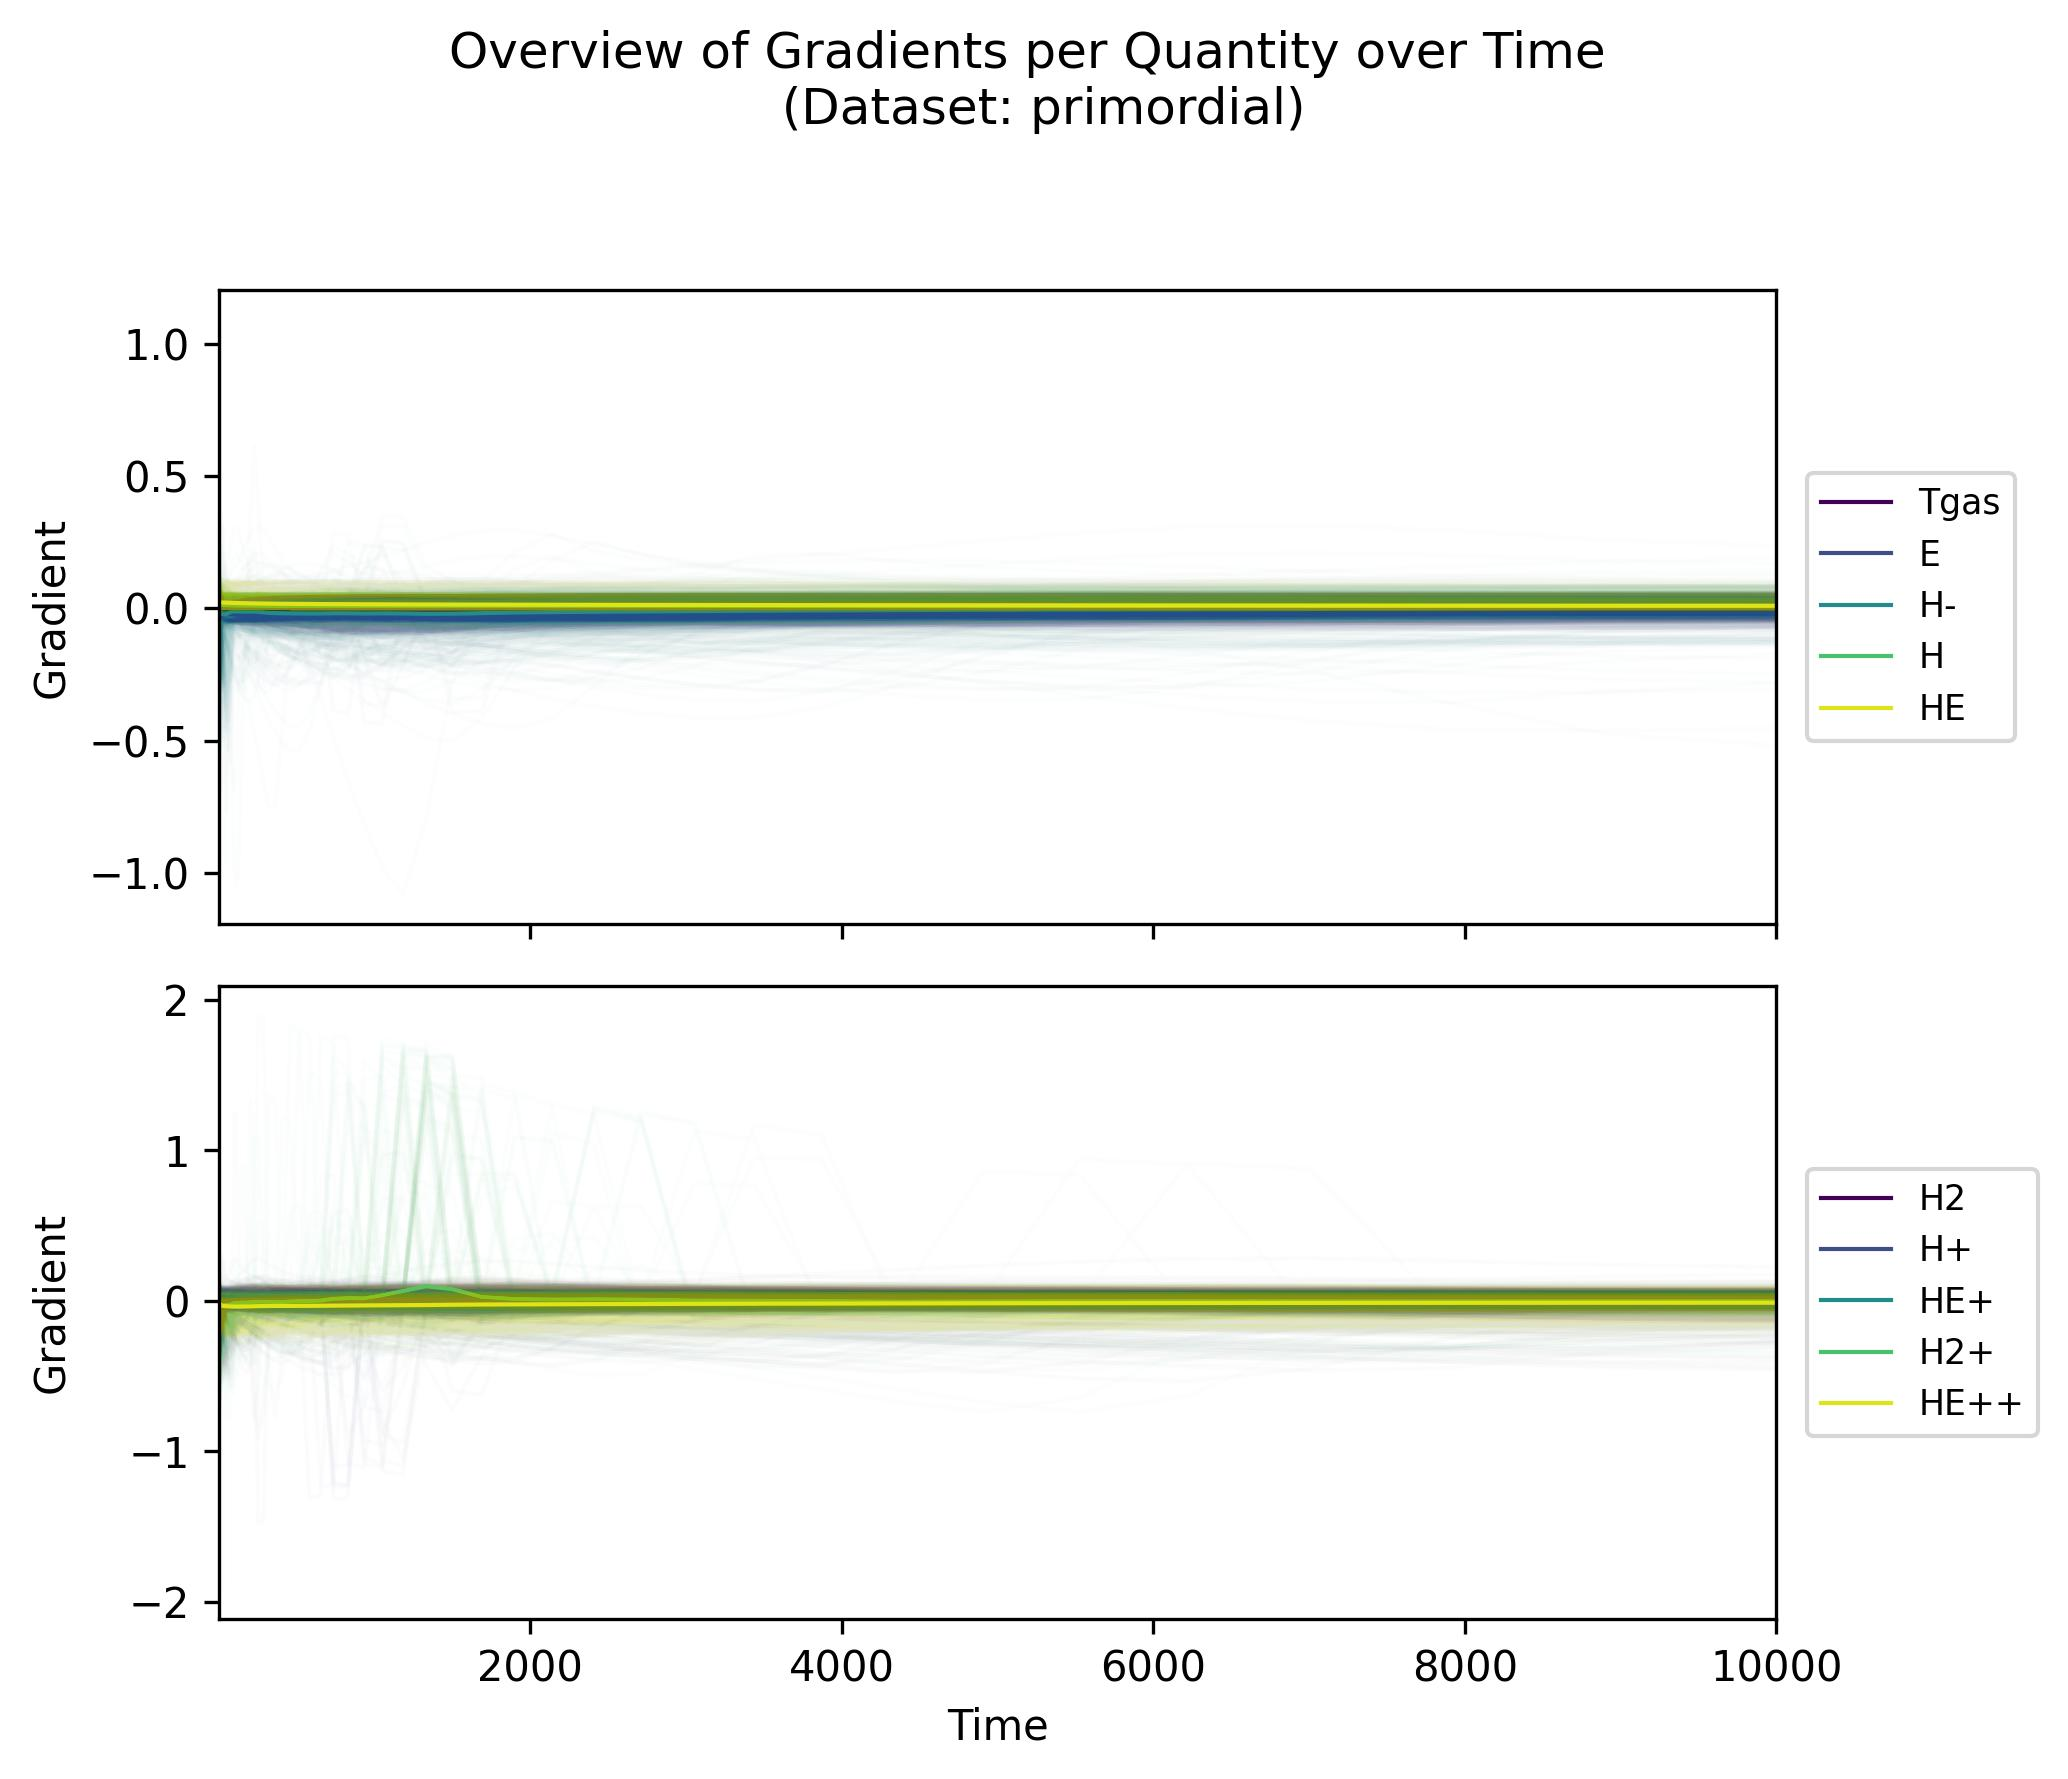
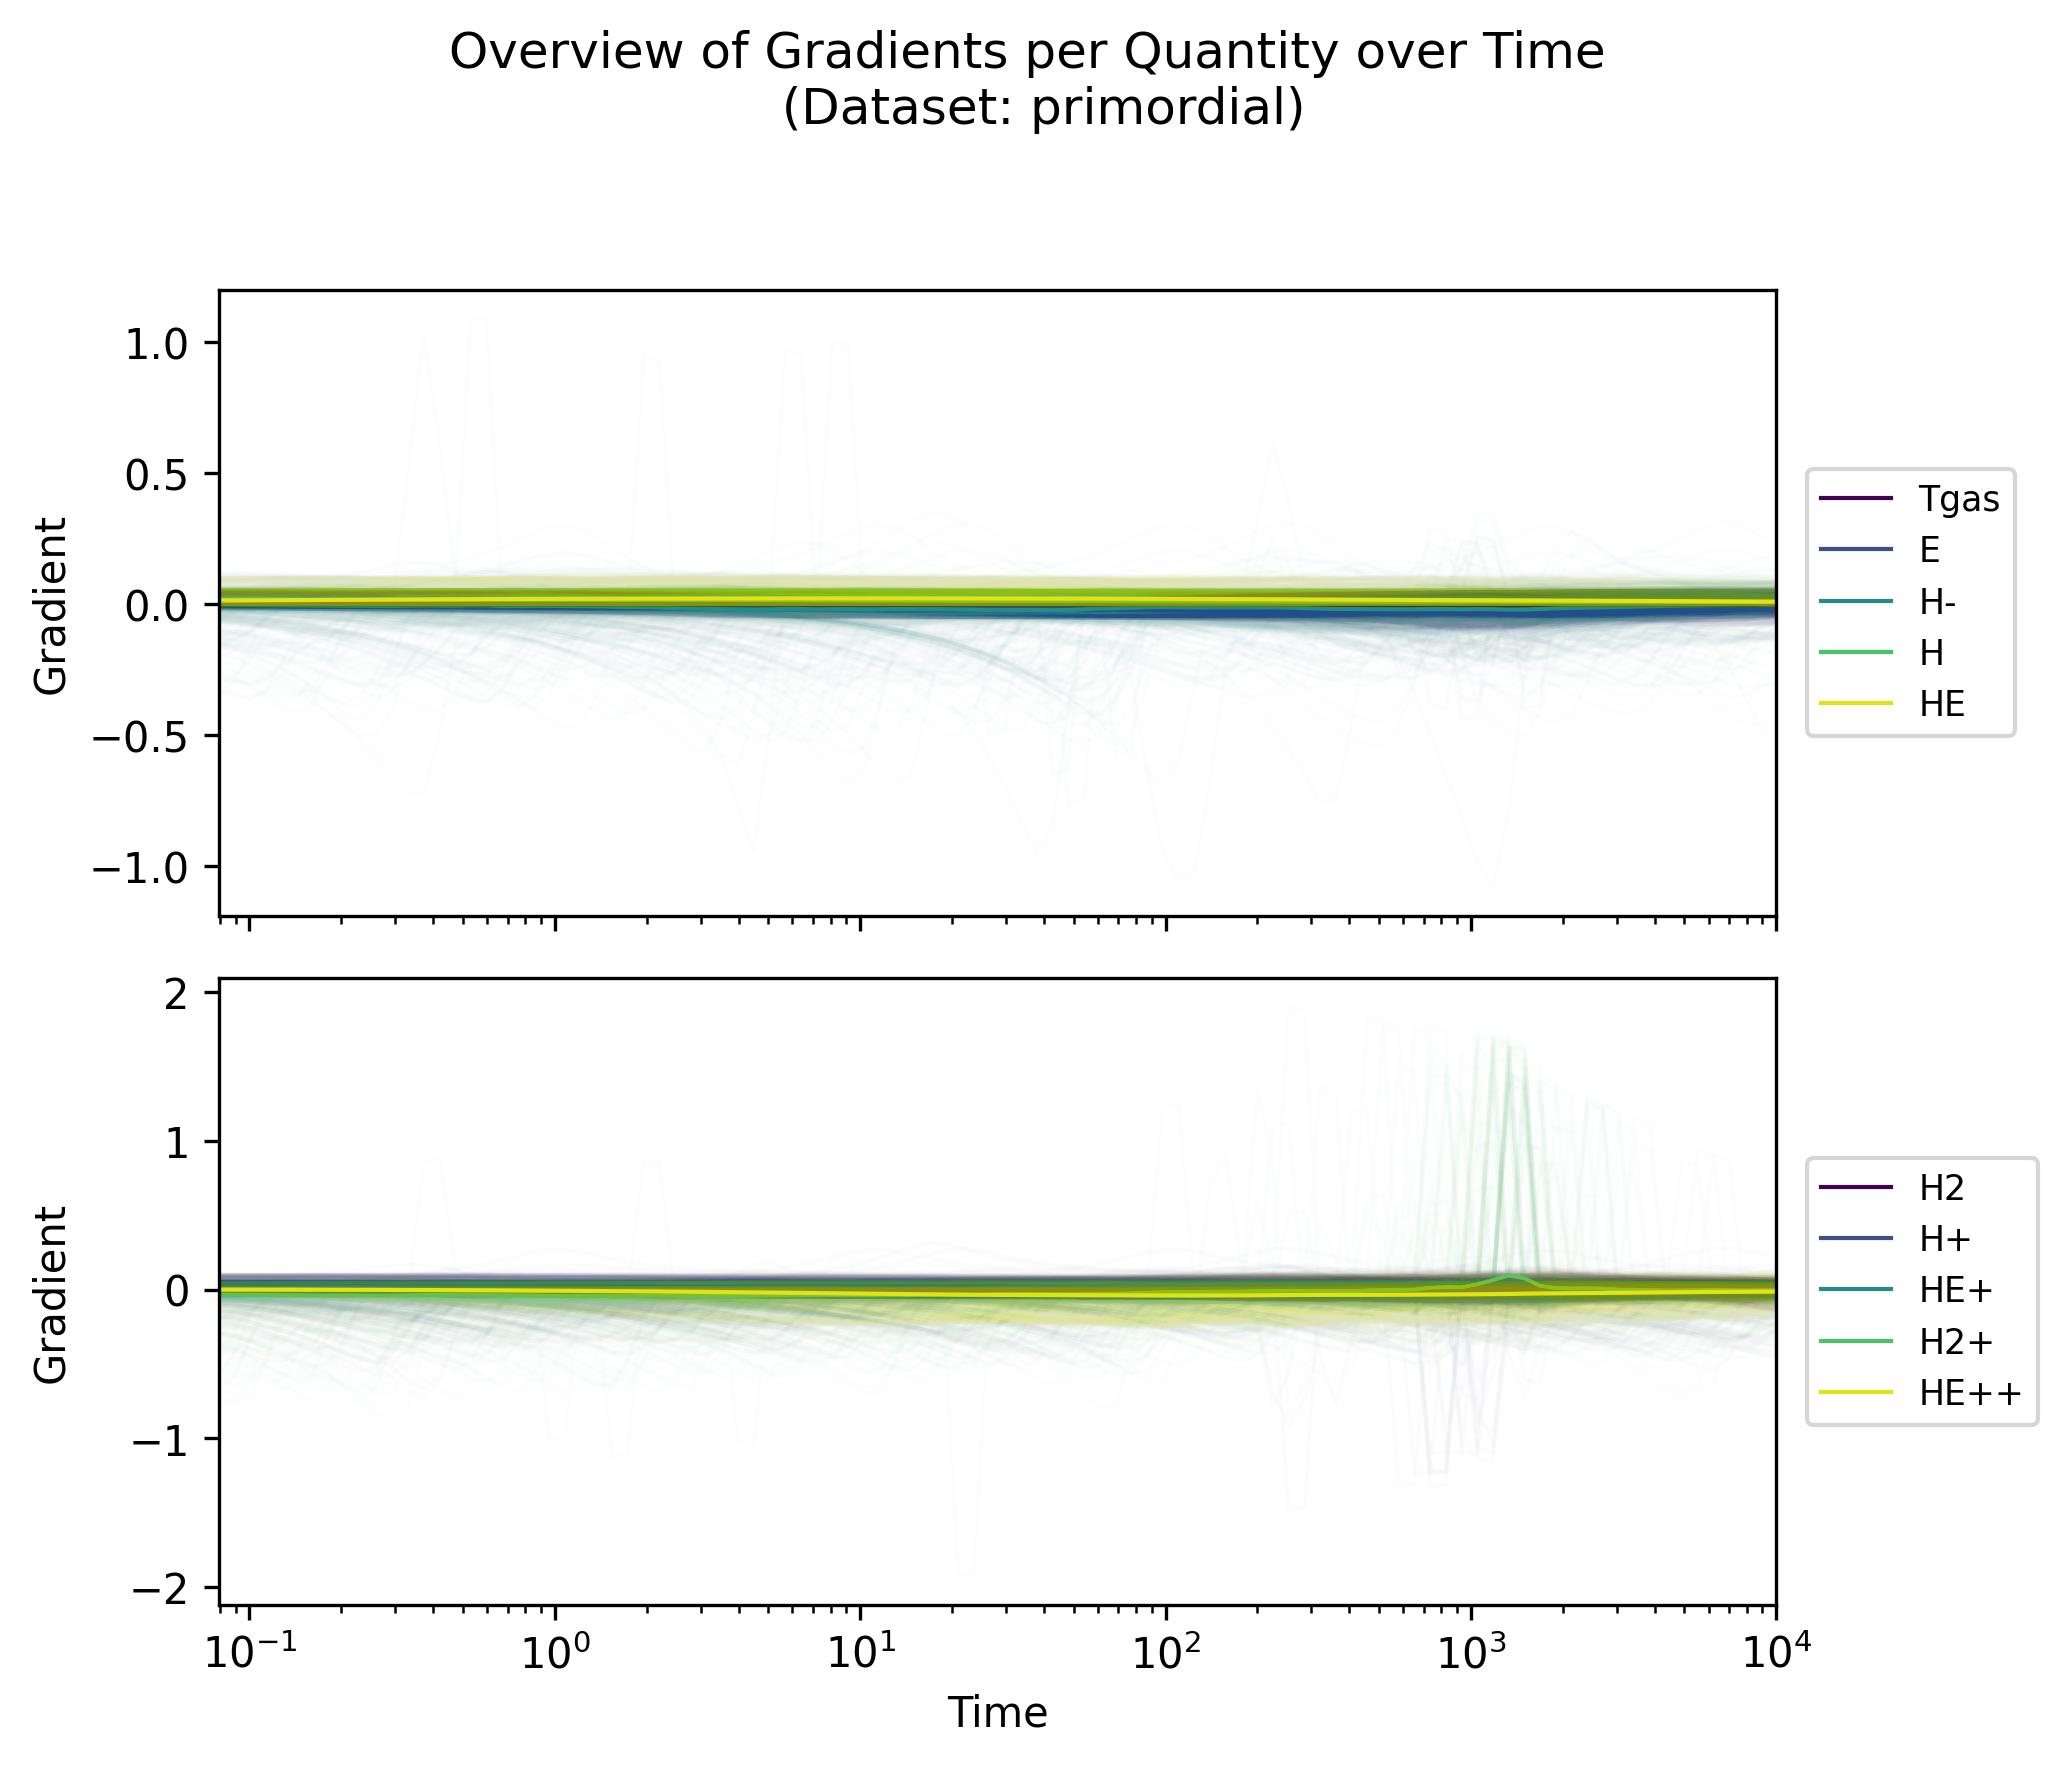
Add primordial_parametric

diff --git a/codes/utils/data_utils.py b/codes/utils/data_utils.py
@@ -663,6 +663,7 @@ def print_data_info(data_path):
         train_samples = f.attrs["n_train_samples"]
         test_samples = f.attrs["n_test_samples"]
         val_samples = f.attrs["n_val_samples"]
+        labels = f.attrs.get("labels", None)
         total_samples = train_samples + test_samples + val_samples
         if "n_parameters" in f.attrs:
             n_parameters = f.attrs["n_parameters"]
@@ -676,3 +677,4 @@ def print_data_info(data_path):
         print(
             f" - Total of {total_samples} samples, train/test/val split is {train_samples}/{test_samples}/{val_samples}."
         )
+        print(f" - Labels: {labels if labels is not None else 'No labels provided'}")

diff --git a/datasets/_data_analysis/dataset_dict.py b/datasets/_data_analysis/dataset_dict.py
@@ -55,10 +55,17 @@ dataset_dict = {
         "log": True,
         "qpp": 5,
         "tol": 1e-30,
+        "log_time": True,
     },
     "lv_parametric": {
         "log": True,
         "qpp": 3,
         "tol": 1e-30,
+    },
+    "primordial_parametric": {
+        "log": True,
+        "qpp": 5,
+        "tol": 1e-30,
+        "log_time": True,
     },
 }

diff --git a/datasets/_data_analysis/analyse_all_datasets.py b/datasets/_data_analysis/analyse_all_datasets.py
@@ -33,8 +33,9 @@ def main():
     Main function to analyse the dataset. It checks the dataset and loads the data.
     """
     datasets = [
-        "lv_parametric",
+        "primordial_parametric",
         "primordial",
+        "lv_parametric",
         "simple_reaction",
         "osutest2",
         "coupled_oscillators",
